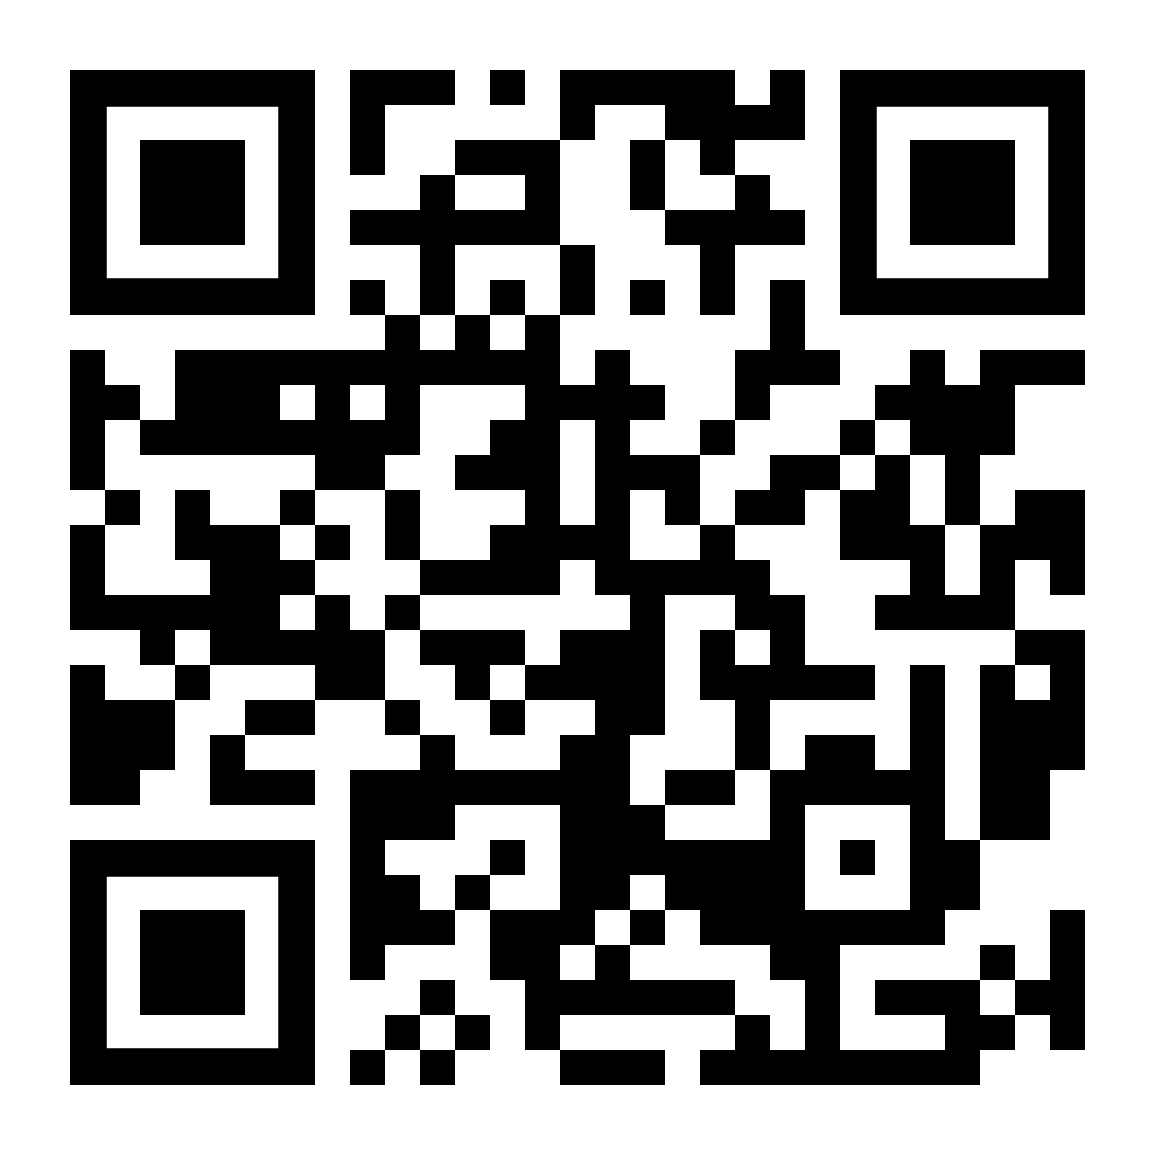
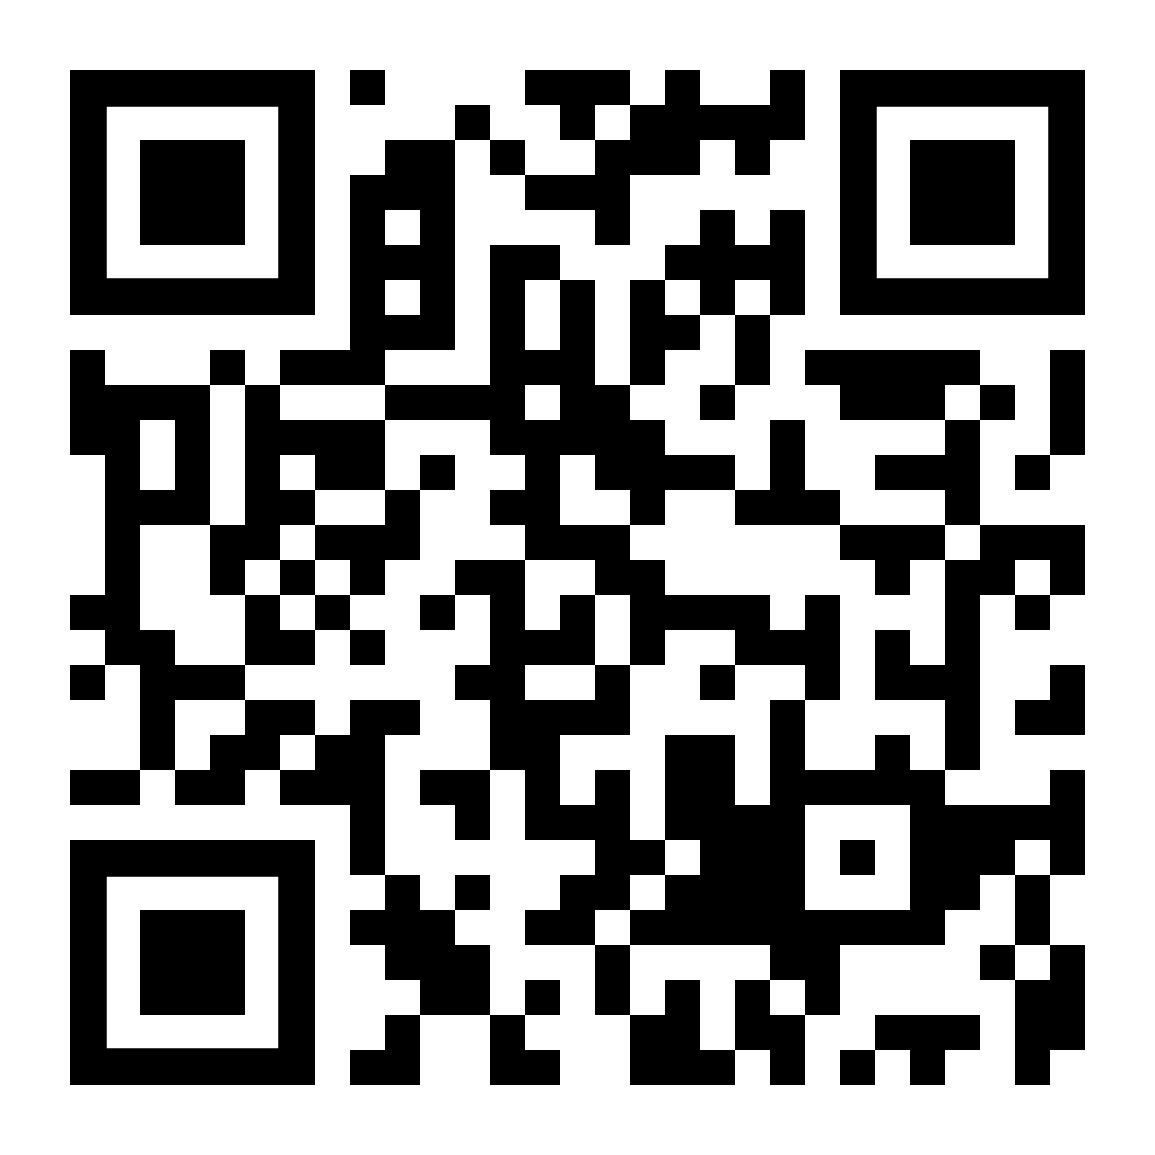
qr scanner tested, it only takes {registration_number:value}

Changed region(s): [[0.0623, 0.0623, 0.9662, 0.9662]]

diff --git a/src/pages/ScanPage.tsx b/src/pages/ScanPage.tsx
@@ -7,9 +7,10 @@ export default function ScanPage(){
     function handleScan(result:any){
         result.forEach((i:any)=>{
             if(i.format.includes("qr_code")){
-                console.log(i.rawValue)
-                if(i.rawValue.registration_number){
-                    authenticate(true,i.rawValue.registration_number)
+                const value=JSON.parse(i.rawValue)
+                console.log(value)
+                if(value.registration_number){
+                    authenticate(true,value.registration_number)
                 }else{
                     let errorMessage=`You are not authorized!`
                     showErrorDialog("Error",errorMessage)
@@ -24,7 +25,7 @@ export default function ScanPage(){
     return(
         <div className="flex flex-col justify-center items-center max-h-screen bg-[var(--primary-01)]">
             <Scanner
-                //allowMultiple={true}
+                allowMultiple={true}
                 classNames={{container:"my-[23vh]"}} 
                 onScan={(result) => handleScan(result)} 
             />
